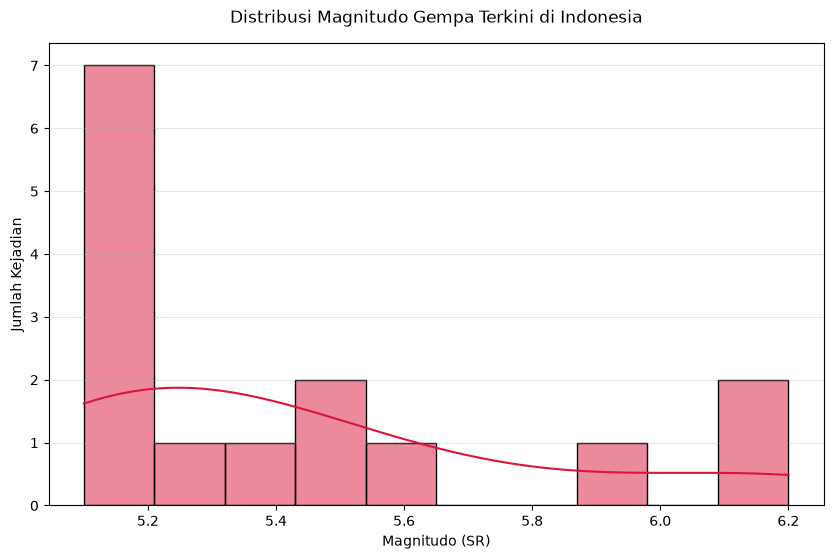
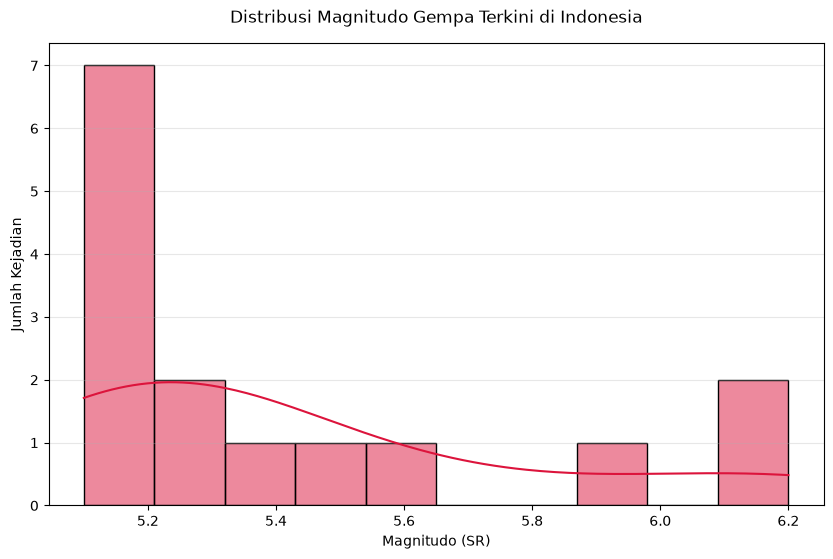
auto: update data gempa BMKG terkini

Changed region(s): [[0.0936, 0.6691, 0.9052, 0.8515]]

diff --git a/README.md b/README.md
@@ -4,7 +4,7 @@ Proyek portofolio data analytics sederhana menggunakan Open Data BMKG (Badan Met
 
 ## Insight Utama (Berdasarkan 15 gempa terakhir)
 - **Gempa Terbesar:** Terjadi dengan magnitudo **6.2 SR** di wilayah **42 km TimurLaut PULAUDOI-MALUT** pada 14 Sep 2026 pukul 17:58:04 WIB.
-- **Rata-rata Kekuatan:** Sekitar **5.45 SR**. Mayoritas gempa terkini berada di rentang menengah yang terpantau oleh sistem peringatan dini.
+- **Rata-rata Kekuatan:** Sekitar **5.43 SR**. Mayoritas gempa terkini berada di rentang menengah yang terpantau oleh sistem peringatan dini.
 - **Rata-rata Kedalaman:** **66.80 km**. 
 
 ## Visualisasi Data
